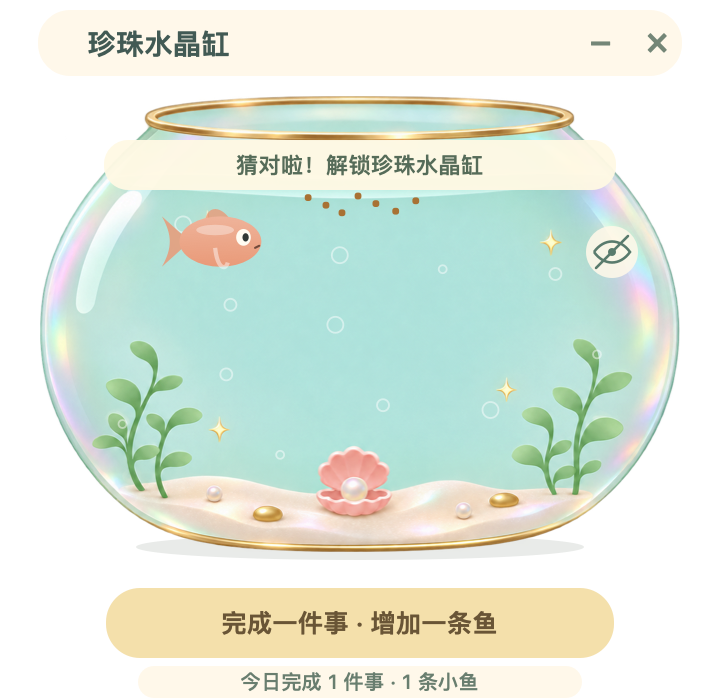
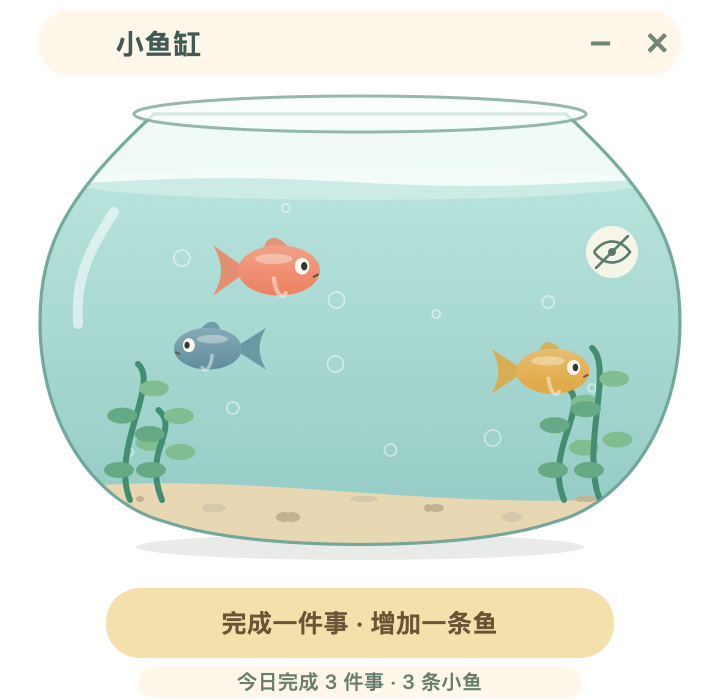
Update README with friendly introduction and aquarium screenshots

diff --git a/README.md b/README.md
@@ -1,52 +1,43 @@
 # 小鱼缸 · Little Aquarium
 
-在 Mac 桌面养一缸小鱼。完成一件事，就给自己增加一条鱼。
+> 完成一件事，桌面上就多一条小鱼。
 
-![小鱼缸](assets/aquarium.png)
+小鱼缸是一款原生 macOS 桌面应用。回完一封邮件、写完一段代码，或者终于做完一件拖了很久的小事，都可以点一下鱼缸，让一条小鱼游进来。一天过到哪儿了，抬眼看看鱼缸就知道。
 
-## 下载
+[下载 macOS 体验版](https://github.com/christygyzhang/little-aquarium/releases)
 
-前往 **[下载页面](https://github.com/christygyzhang/little-aquarium/releases)**，在最新版本的 **Assets** 中下载 `Little-Aquarium-1.0.0-universal.dmg`。
+![小鱼缸应用截图](assets/aquarium.png)
 
-- 系统要求：macOS 13 Ventura 或更新版本。
-- 安装包包含 Apple 芯片和 Intel 两种架构；Intel Mac 兼容性仍需实机反馈。
-- 这是早期体验版，暂未使用 Apple Developer ID 签名，也未完成 Apple 公证，首次打开可能被系统拦截。
-- 此仓库用于发布安装包、使用说明和收集反馈，暂不包含应用源码。
+## 怎么玩
 
-## 安装与首次打开
+- **做完一件事，添一条鱼。** 点鱼缸、点「完成」，或者从菜单栏记录。也可以给小鱼投喂。
 
-1. 打开下载的 `.dmg`，将「小鱼缸.app」拖入「Applications」。
-2. 在「应用程序」中双击「小鱼缸」。
-3. 如果系统提示无法验证开发者，且你确认安装包来自本仓库、文件未被篡改，可在尝试打开后进入「系统设置 → 隐私与安全性」，点击「仍要打开」并确认。
+  ![正在给小鱼投喂](assets/feeding.png)
 
-首次打开说明参考 [Apple 官方指南](https://support.apple.com/zh-cn/102445)。如果系统报告恶意软件或文件损坏，请停止安装并反馈。安装时无需关闭系统安全保护，也无需运行终端命令。
+- **每天猜一次鱼的颜色。** 当天第一次记录完成时，可以猜第一条小鱼是什么颜色。猜对了，当天就能换上珍珠水晶鱼缸。
 
-也可下载 `.zip`，解压后将应用拖入「应用程序」。不要下载 GitHub 自动提供的 `Source code` 压缩包来安装应用。
+  | 猜猜第一条小鱼的颜色 | 猜对后解锁珍珠水晶鱼缸 |
+  | :---: | :---: |
+  | <img src="assets/guess.png" alt="七种颜色的竞猜面板" width="320"> | <img src="assets/reward.png" alt="解锁后的珍珠水晶鱼缸" width="320"> |
 
-## 玩法
+- **每天早上开启新一轮。** 鱼缸在北京时间早上 9:00 重置，过了午夜也还能接着养。关掉应用再打开，本轮的小鱼和竞猜结果会自动恢复。
 
-- **完成一件事，增加一条鱼**：点击鱼缸、完成按钮，或菜单栏中的相应选项。
-- **每天猜一次颜色**：当天第一次完成时，猜第一条鱼的颜色。猜对后，当天解锁珍珠水晶鱼缸。
-- **每天早上 9:00 清零**：按北京时间（UTC+8）开始新的一轮；凌晨仍属于上一轮。
-- **进度自动保存**：退出再打开，恢复本轮的小鱼、颜色顺序和竞猜结果。
-- **桌面陪伴**：拖动鱼缸移动位置，通过菜单栏切换迷你 / 标准尺寸、暂停游动。
-- **纯鱼缸模式**：点击眼睛按钮隐藏文字和操作栏；将鼠标移到鱼缸上可再次显示眼睛按钮。
+## 把鱼缸放在顺眼的地方
 
-| 操作 | 方法 |
-| --- | --- |
-| 显示 / 隐藏鱼缸 | `⌘ ⇧ H`，或菜单栏小鱼图标 |
-| 隐藏窗口 | 右上角 `−` |
-| 退出 | 右上角 `×`，或菜单栏「退出小鱼缸」 |
-| 增加一条鱼 | 点击鱼缸、完成按钮，或菜单栏操作 |
+透明鱼缸可以拖到桌面喜欢的位置，在迷你和标准尺寸之间切换，也能暂停小鱼游动。想安静看鱼时，点一下眼睛图标，就能收起文字和操作栏。
 
-小鱼缸在菜单栏运行，不显示 Dock 图标。全局快捷键被其他应用占用时，可使用菜单栏控制。
+小鱼缸在菜单栏运行。用菜单栏的小鱼图标，或按 `⌘⇧H`，就能随时显示或隐藏鱼缸。
 
-## 隐私与更新
+## 下载与安装
 
-应用无需注册账号，不收集或上传个人信息。进度和显示偏好保存在本机；应用本身没有联网、统计或广告功能。详情见 [隐私说明](PRIVACY.md)。
+**系统要求** · 搭载 Apple 芯片（Apple Silicon）的 Mac，运行 macOS 13 Ventura 或更新版本。
 
-当前版本需要手动更新：退出旧版，下载新版并替换「应用程序」中的小鱼缸。替换应用通常不会清除保存在本机的进度。
+前往 [GitHub Releases](https://github.com/christygyzhang/little-aquarium/releases) 下载 `.dmg`，打开后将「小鱼缸.app」拖入「应用程序」。
 
-## 反馈
+当前是早期体验版，尚未使用 Apple Developer ID 签名，也未经过 Apple 公证。首次打开的说明见发布页。
 
-欢迎在 [Issues](https://github.com/christygyzhang/little-aquarium/issues) 提交问题或建议。报告问题时请附上 macOS 版本、芯片类型、复现步骤；避免上传个人敏感信息。
+## 隐私与反馈
+
+无需注册账号，应用离线运行，鱼缸进度和显示偏好只保存在本机。[隐私说明](PRIVACY.md)
+
+遇到问题，或者有想加进鱼缸的小点子，欢迎在 [Issues](https://github.com/christygyzhang/little-aquarium/issues) 留言。
